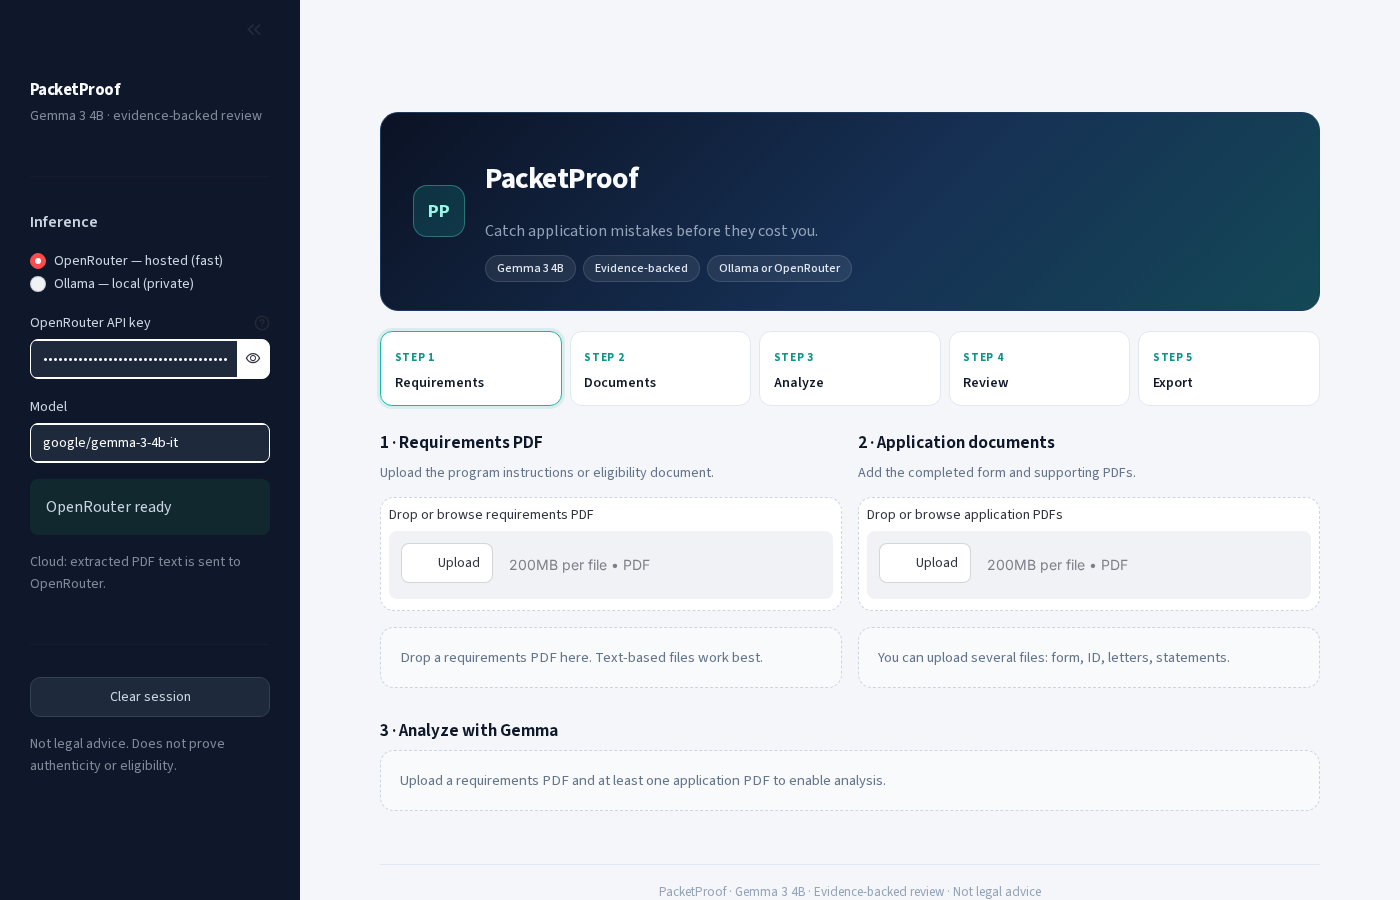
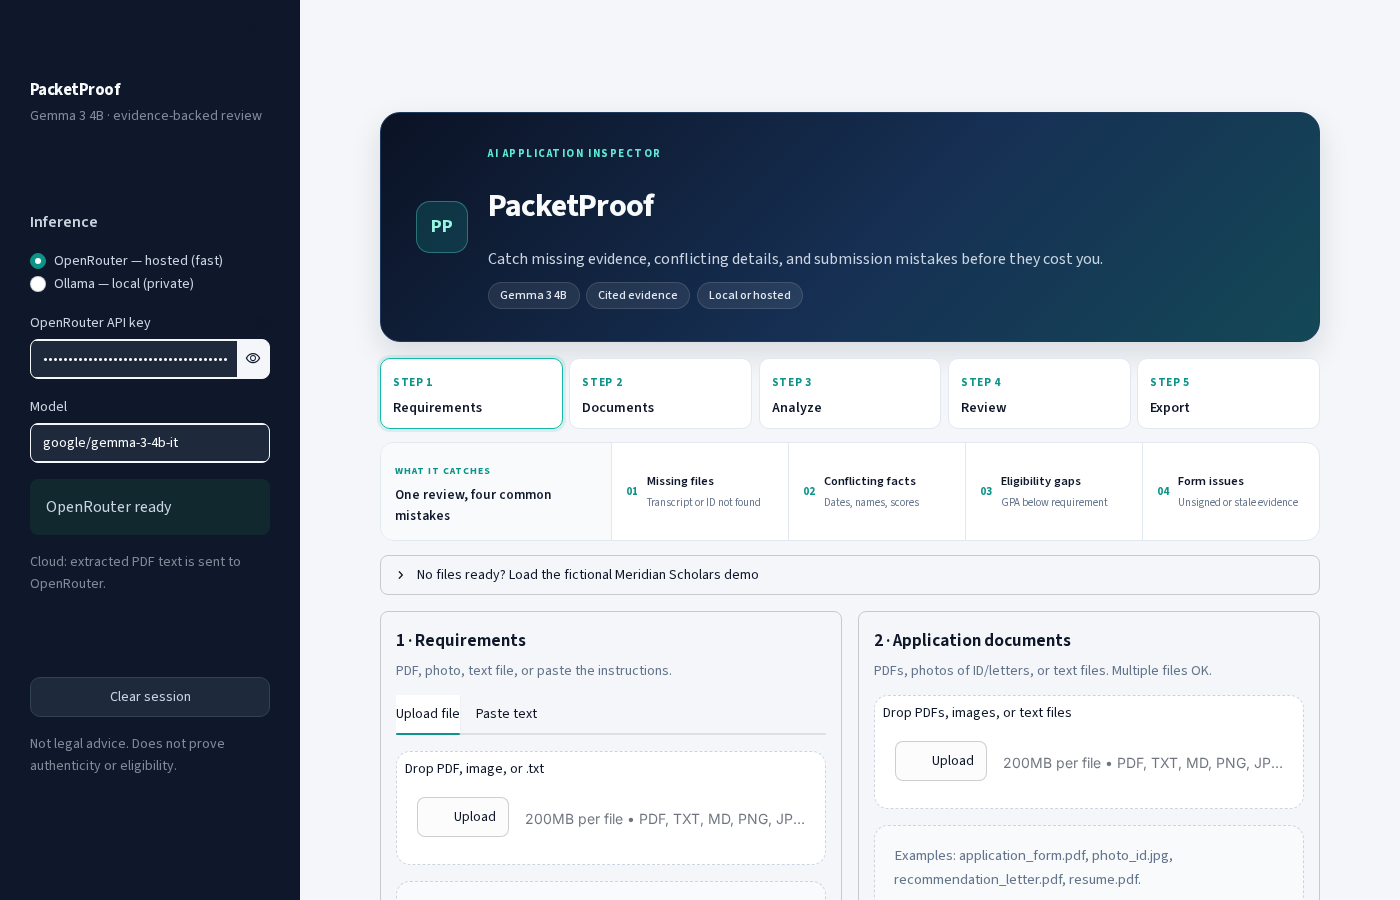
Simplify UI hierarchy and tighten onboarding layout

diff --git a/ui/styles.py b/ui/styles.py
@@ -136,13 +136,14 @@ span[class^="material"],
 .pp-header {
     background: linear-gradient(135deg, #0b1224 0%, #163054 55%, #115e59 140%);
     color: #f8fafc;
-    padding: 1.75rem 2rem;
-    border-radius: 18px;
-    margin-bottom: 1.25rem;
+    padding: 2rem 2.2rem;
+    border-radius: 20px;
+    margin-bottom: 1rem;
     border: 1px solid #1e3a5f;
     display: flex;
     gap: 1.25rem;
     align-items: center;
+    box-shadow: 0 12px 30px rgba(15, 23, 42, 0.12);
 }
 .pp-mark {
     width: 52px;
@@ -160,14 +161,22 @@ span[class^="material"],
 }
 .pp-header h1 {
     margin: 0;
-    font-size: 1.85rem;
+    font-size: 2rem;
     font-weight: 700;
     letter-spacing: -0.03em;
 }
+.pp-eyebrow {
+    color: #5eead4;
+    font-size: 0.68rem;
+    font-weight: 700;
+    letter-spacing: 0.14em;
+    margin-bottom: 0.2rem;
+}
 .pp-tagline {
-    color: #94a3b8;
+    color: #cbd5e1;
     margin-top: 0.35rem;
     font-size: 1rem;
+    max-width: 700px;
 }
 .pp-pills {
     margin-top: 0.7rem;
@@ -188,15 +197,15 @@ span[class^="material"],
 .pp-stepper {
     display: grid;
     grid-template-columns: repeat(5, 1fr);
-    gap: 0.5rem;
-    margin: 0 0 1.4rem 0;
+    gap: 0.4rem;
+    margin: 0 0 0.8rem 0;
 }
 .pp-step {
     background: #ffffff;
     border: 1px solid #e2e8f0;
-    border-radius: 12px;
-    padding: 0.7rem 0.85rem;
-    min-height: 72px;
+    border-radius: 10px;
+    padding: 0.55rem 0.75rem;
+    min-height: 56px;
 }
 .pp-step.active {
     border-color: #14b8a6;
@@ -258,32 +267,62 @@ span[class^="material"],
     font-size: 0.88rem;
     margin-bottom: 0.75rem;
 }
-.pp-examples {
+.pp-capabilities {
     display: grid;
-    grid-template-columns: repeat(3, 1fr);
-    gap: 0.75rem;
-    margin: 0 0 1.35rem 0;
-}
-.pp-ex {
+    grid-template-columns: 1.3fr repeat(4, 1fr);
+    gap: 0;
     background: #ffffff;
     border: 1px solid #e2e8f0;
     border-radius: 14px;
-    padding: 0.95rem 1.05rem;
+    margin: 0 0 0.9rem 0;
+    overflow: hidden;
 }
-.pp-ex h3 {
-    margin: 0 0 0.45rem 0;
-    font-size: 0.92rem;
+.pp-cap-intro, .pp-cap {
+    padding: 0.8rem 0.9rem;
+    min-height: 62px;
+}
+.pp-cap-intro {
+    background: #f8fafc;
+}
+.pp-cap-intro strong {
+    display: block;
+    margin-top: 0.15rem;
     color: #0f172a;
-}
-.pp-ex ul {
-    margin: 0;
-    padding-left: 1.1rem;
-    color: #475569;
     font-size: 0.84rem;
-    line-height: 1.45;
+}
+.pp-cap-kicker {
+    color: #0d9488;
+    font-size: 0.62rem;
+    font-weight: 700;
+    letter-spacing: 0.1em;
+}
+.pp-cap {
+    border-left: 1px solid #e2e8f0;
+    display: flex;
+    align-items: center;
+    gap: 0.55rem;
+}
+.pp-cap > span {
+    color: #0d9488;
+    font-size: 0.68rem;
+    font-weight: 700;
+}
+.pp-cap strong {
+    display: block;
+    color: #0f172a;
+    font-size: 0.78rem;
+}
+.pp-cap small {
+    display: block;
+    color: #64748b;
+    font-size: 0.68rem;
+    margin-top: 0.12rem;
 }
 @media (max-width: 900px) {
-    .pp-examples { grid-template-columns: 1fr; }
+    .pp-capabilities { grid-template-columns: 1fr 1fr; }
+    .pp-cap-intro { grid-column: 1 / -1; }
+    .pp-cap:nth-child(odd) { border-left: none; }
+    .pp-stepper { grid-template-columns: repeat(5, minmax(80px, 1fr)); overflow-x: auto; }
 }
 .pp-muted { color: #64748b; font-size: 0.88rem; }
 

diff --git a/ui/components.py b/ui/components.py
@@ -28,12 +28,13 @@ def render_header() -> None:
         <div class="pp-header">
             <div class="pp-mark">PP</div>
             <div>
+                <div class="pp-eyebrow">AI APPLICATION INSPECTOR</div>
                 <h1>PacketProof</h1>
-                <div class="pp-tagline">Catch application mistakes before they cost you.</div>
+                <div class="pp-tagline">Catch missing evidence, conflicting details, and submission mistakes before they cost you.</div>
                 <div class="pp-pills">
                     <span class="pp-pill">Gemma 3 4B</span>
-                    <span class="pp-pill">Evidence-backed</span>
-                    <span class="pp-pill">Ollama or OpenRouter</span>
+                    <span class="pp-pill">Cited evidence</span>
+                    <span class="pp-pill">Local or hosted</span>
                 </div>
             </div>
         </div>
@@ -63,34 +64,15 @@ def render_stepper(active: int) -> None:
 def render_examples() -> None:
     st.markdown(
         """
-        <div class="pp-examples">
-          <div class="pp-ex">
-            <h3>What you can add</h3>
-            <ul>
-              <li>Scholarship or visa instruction PDF</li>
-              <li>Photo of a printed checklist</li>
-              <li>Paste rules from a website</li>
-              <li>Application form, ID, transcript, letter</li>
-            </ul>
+        <div class="pp-capabilities">
+          <div class="pp-cap-intro">
+            <span class="pp-cap-kicker">WHAT IT CATCHES</span>
+            <strong>One review, four common mistakes</strong>
           </div>
-          <div class="pp-ex">
-            <h3>What PacketProof checks</h3>
-            <ul>
-              <li>Missing documents (e.g. no transcript)</li>
-              <li>GPA or score below a stated minimum</li>
-              <li>Dates that conflict (form vs resume)</li>
-              <li>Unsigned declarations, stale letters</li>
-            </ul>
-          </div>
-          <div class="pp-ex">
-            <h3>Example packets</h3>
-            <ul>
-              <li>University / scholarship applications</li>
-              <li>Internships and job packets</li>
-              <li>Grant or visa supporting files</li>
-              <li>Try the built-in Meridian demo below</li>
-            </ul>
-          </div>
+          <div class="pp-cap"><span>01</span><div><strong>Missing files</strong><small>Transcript or ID not found</small></div></div>
+          <div class="pp-cap"><span>02</span><div><strong>Conflicting facts</strong><small>Dates, names, scores</small></div></div>
+          <div class="pp-cap"><span>03</span><div><strong>Eligibility gaps</strong><small>GPA below requirement</small></div></div>
+          <div class="pp-cap"><span>04</span><div><strong>Form issues</strong><small>Unsigned or stale evidence</small></div></div>
         </div>
         """,
         unsafe_allow_html=True,

diff --git a/app.py b/app.py
@@ -179,7 +179,7 @@ def _active_client():
 
 
 def _demo_loader() -> None:
-    with st.expander("Try a ready-made example (Meridian Scholars, fictional)"):
+    with st.expander("No files ready? Load the fictional Meridian Scholars demo"):
         st.markdown(
             "Loads a sample **requirements PDF** plus application form, ID, "
             "recommendation letter, resume, and personal statement. "
@@ -188,7 +188,10 @@ def _demo_loader() -> None:
         if st.button("Load demo packet", type="secondary"):
             req = DEMO_DIR / "meridian_requirements_2026.pdf"
             if not req.exists():
-                st.error("Demo files missing. Run `python3 demo/generate_samples.py`.")
+                from demo.generate_samples import main as gen_demo
+                gen_demo()
+            if not req.exists():
+                st.error("Could not generate demo PDFs.")
                 return
             req_bytes = req.read_bytes()
             st.session_state["requirements_file"] = (req.name, req_bytes)
@@ -416,11 +419,14 @@ def main() -> None:
     _demo_loader()
     col_a, col_b = st.columns(2)
     with col_a:
-        step_requirements()
+        with st.container(border=True):
+            step_requirements()
     with col_b:
-        step_application()
+        with st.container(border=True):
+            step_application()
     st.markdown("")
-    step_analyze()
+    with st.container(border=True):
+        step_analyze()
     step_results()
     st.markdown(
         '<div class="pp-footer">PacketProof · Gemma 3 4B · Evidence-backed review · Not legal advice</div>',
